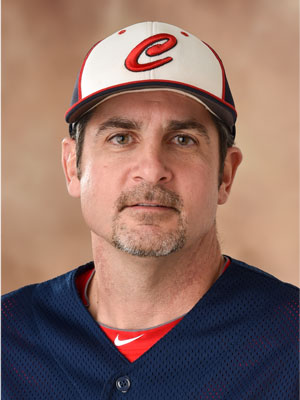
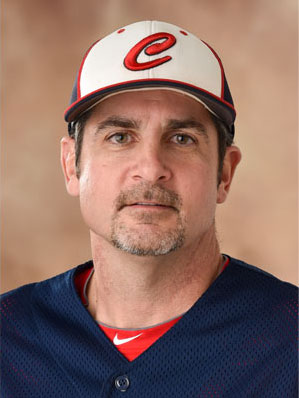
Add image of Coach Todd Post into baseball's coach section
Re-crop image to remove white sliver on left side

diff --git a/baseball.html b/baseball.html
@@ -45,7 +45,7 @@ baseurl: ../
     </div>
     <div class="row">
       <div class="col-md-4">
-
+        <img src="{{page.baseurl}}assets/img/todd-post.jpg" alt="Photo of Head Coach Todd Post" class="img-fluid pull-left">
       </div>
       <div class="col-md-4">
 
